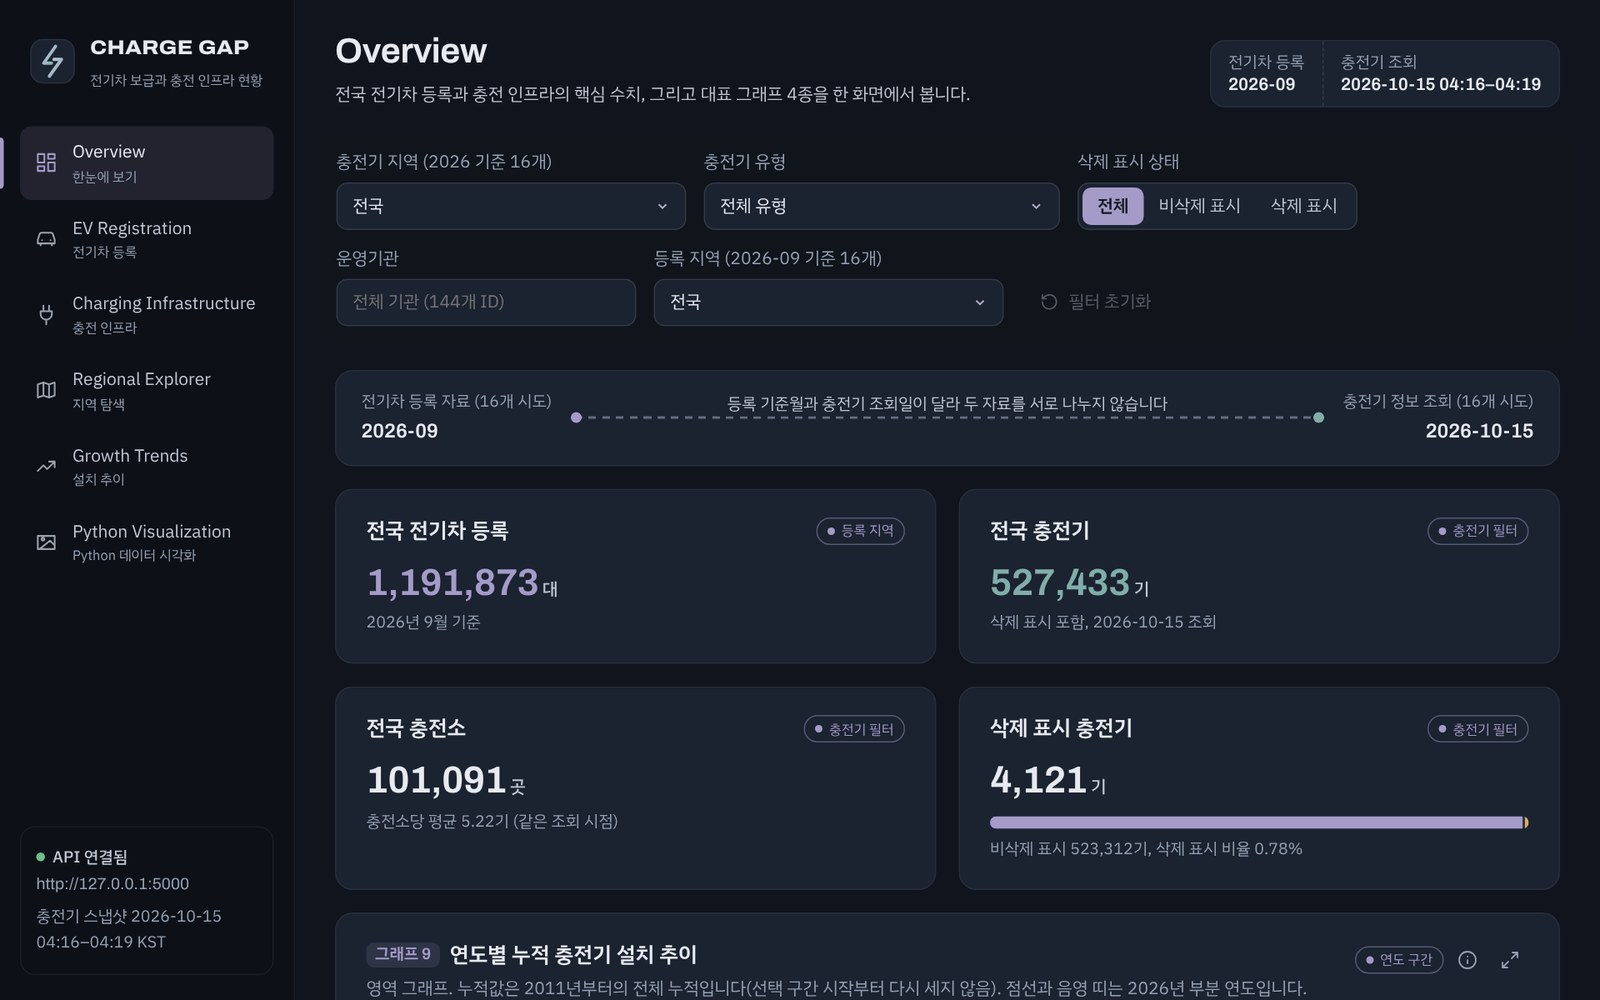
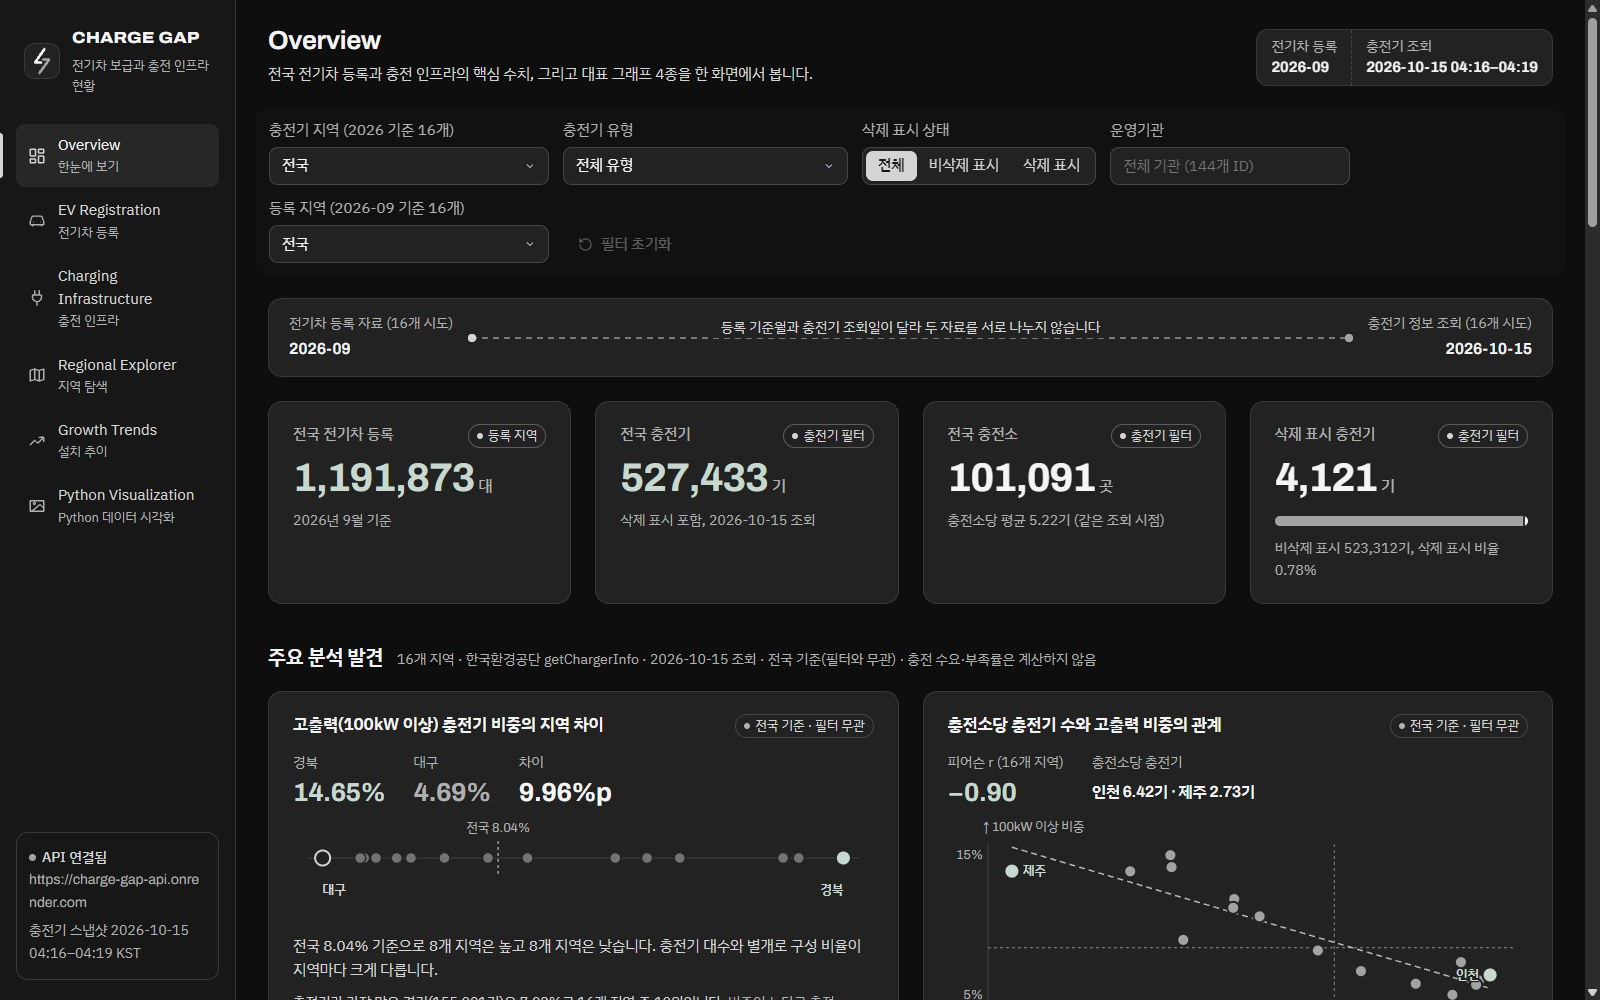
Update README preview images from live site
Recapture the four README preview screenshots at 1600x1000 from
https://charge-gap.onrender.com (deployed 9bbef7a) after all data,
graphs and the Kakao map finished loading, and update alt text,
captions and the capture note.

Claude-Session: https://claude.ai/code/session_01R3Rw37Ro3o2UrQBPDZfLYb

diff --git a/README.md b/README.md
@@ -32,16 +32,16 @@
 
 <table>
   <tr>
-    <td width="50%"><img src="docs/images/overview.jpg" alt="Overview 대시보드: 전기차·충전기·충전소·삭제 표시 KPI와 기준 시점 띠" width="100%"></td>
-    <td width="50%"><img src="docs/images/regional-disparity.jpg" alt="전국 충전 인프라 구성 격차: 전국 기준값과 16개 지역 막대 비교" width="100%"></td>
+    <td width="50%"><img src="docs/images/overview.jpg" alt="Overview 대시보드: 전기차 등록·충전기·충전소·삭제 표시 KPI 4개, 기준 시점 띠, 주요 분석 발견 그래프" width="100%"></td>
+    <td width="50%"><img src="docs/images/regional-disparity.jpg" alt="전국 충전 인프라 구성 격차: 100kW 이상 비중 전국 기준 8.04%, 16개 지역 막대와 지역 격차 히트맵" width="100%"></td>
   </tr>
   <tr>
-    <td align="center"><b>Overview</b> · 핵심 KPI와 대표 그래프</td>
-    <td align="center"><b>지역별 충전 인프라 구성 격차</b> · 전국 기준선과 16개 지역 비교</td>
+    <td align="center"><b>Overview</b> · 핵심 KPI 4개와 주요 분석 발견</td>
+    <td align="center"><b>충전 인프라 구성 격차</b> · 전국 기준선, 16개 지역 막대·히트맵</td>
   </tr>
   <tr>
-    <td width="50%"><img src="docs/images/regional-map.jpg" alt="Regional Explorer 카카오맵 충전소 지도: 서울 화면 영역 충전소 격자 묶음과 서울 충전 인프라 요약 패널" width="100%"></td>
-    <td width="50%"><img src="docs/images/python-visualization.jpg" alt="Python Visualization: Matplotlib·Seaborn 고정 그래프 갤러리" width="100%"></td>
+    <td width="50%"><img src="docs/images/regional-map.jpg" alt="Regional Explorer 카카오맵 충전소 지도: 서울 줌 13 화면 영역 충전소 4,070곳 격자 묶음과 서울 충전 인프라 요약 패널" width="100%"></td>
+    <td width="50%"><img src="docs/images/python-visualization.jpg" alt="Python Visualization: Matplotlib·Seaborn 고정 그래프 갤러리, PY01~PY06 카드" width="100%"></td>
   </tr>
   <tr>
     <td align="center"><b>Regional Explorer</b> · 카카오맵 충전소 지도와 지역 요약</td>
@@ -49,7 +49,7 @@
   </tr>
 </table>
 
-<sub>Overview·지역 격차·Python Visualization은 2026-11-05에 커밋 `6249b30`과 같은 소스를 로컬 프로덕션 빌드로 실행해 1600×1000으로 캡처했습니다(사이드바의 API 주소가 로컬 주소로 표시됨). Regional Explorer 지도는 2026-11-13 공개 사이트(커밋 `36ed7a6` 배포본)에서 1600×1000으로 촬영했으며, 지도의 카카오 로고·저작권 표시를 그대로 두었습니다.</sub>
+<sub>네 장 모두 2026-11-14 공개 사이트 <a href="https://charge-gap.onrender.com">charge-gap.onrender.com</a>(기능 커밋 <code>9bbef7a</code> 배포본)에서 1600×1000 화면으로 촬영했고, 데이터·그래프·지도가 모두 불러와진 뒤 찍었습니다. 사이드바에는 운영 API 주소가 표시됩니다. 충전 인프라 구성 격차 화면은 Regional Explorer 페이지의 해당 구역으로 스크롤한 상태이며, 지도는 충전기 지역을 서울로 고른 뒤 줌 13에서 촬영해 카카오 로고·저작권 표시를 그대로 두었습니다.</sub>
 
 ## 주요 기능
 
